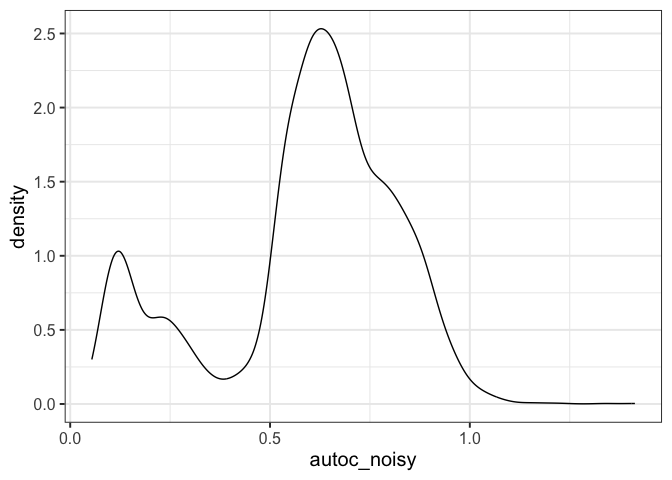
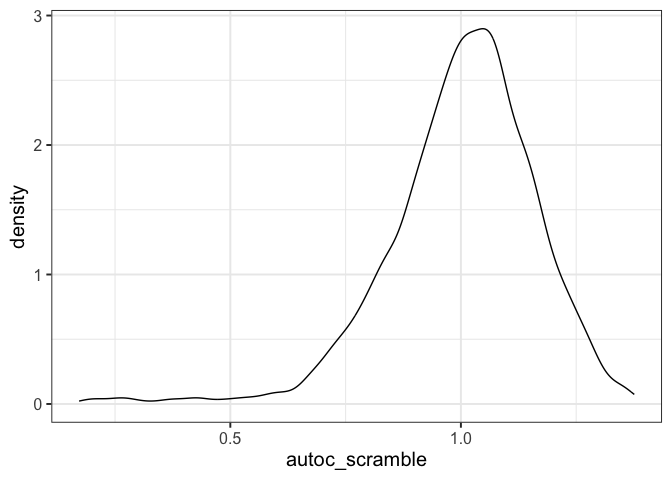
add perfect AUTOC

diff --git a/code/notebooks/2026-07-09_check-autoc.md b/code/notebooks/2026-07-09_check-autoc.md
@@ -62,6 +62,40 @@ all_runs %>%
 
 ![](figures/2026-07-09_check-autoc/unnamed-chunk-5-1.png)<!-- -->
 
+perfect autoc:
+
+``` r
+all_runs <- all_runs %>%
+  mutate(autoc_perfect = purrr::map(
+    .x = df_out,
+    .f = ~ autoc_norm_vec(truth = .x$cate_real,
+                     estimate = .x$cate_real)
+  )) %>%
+  unnest(autoc_perfect) %>%
+  mutate(autoc_perfect = 1 - autoc_perfect) # so lower is better
+```
+
+``` r
+# 0 = perfect ranking and 1 = no useful ranking, here, all = 0 
+all_runs %>% 
+  glimpse()
+```
+
+    ## Rows: 4,320
+    ## Columns: 12
+    ## $ assignment         <fct> random, random, random, random, random, random, ran…
+    ## $ prop_not_treated   <dbl> 0.3, 0.3, 0.3, 0.3, 0.3, 0.3, 0.3, 0.3, 0.3, 0.3, 0…
+    ## $ n_train            <dbl> 250, 250, 250, 250, 250, 250, 250, 250, 250, 250, 2…
+    ## $ learner            <fct> s, s, s, s, s, s, s, s, s, s, s, s, s, s, s, s, s, …
+    ## $ var_omit           <fct> none, none, none, none, none, none, none, none, non…
+    ## $ test_plot_location <fct> stratified, stratified, stratified, stratified, str…
+    ## $ run_id             <int> 1, 2, 3, 4, 5, 6, 7, 8, 9, 10, 11, 12, 13, 14, 15, …
+    ## $ df_assigned        <list> [<tbl_df[1806 x 26]>], [<tbl_df[1806 x 26]>], [<tb…
+    ## $ df_train           <list> [<tbl_df[250 x 26]>], [<tbl_df[250 x 26]>], [<tbl_…
+    ## $ df_out             <list> [<tbl_df[108 x 28]>], [<tbl_df[108 x 28]>], [<tbl_…
+    ## $ autoc_clean        <dbl> 0.6903083, 0.6347699, 0.8503038, 0.6859188, 0.12976…
+    ## $ autoc_perfect      <dbl> 0, 0, 0, 0, 0, 0, 0, 0, 0, 0, 0, 0, 0, 0, 0, 0, 0, …
+
 now scramble
 
 ``` r
@@ -88,7 +122,7 @@ all_runs %>%
   geom_density()
 ```
 
-![](figures/2026-07-09_check-autoc/unnamed-chunk-7-1.png)<!-- -->
+![](figures/2026-07-09_check-autoc/unnamed-chunk-9-1.png)<!-- -->
 
 try adding small amount of error - Gaussian noise
 
@@ -121,19 +155,21 @@ all_runs %>%
   geom_density()
 ```
 
-![](figures/2026-07-09_check-autoc/unnamed-chunk-9-1.png)<!-- -->
+![](figures/2026-07-09_check-autoc/unnamed-chunk-11-1.png)<!-- -->
 
 ``` r
 all_runs %>% 
-  summarise(median(autoc_clean), 
+  summarise(median(autoc_perfect),
+            median(autoc_clean), 
             median(autoc_scramble),  
             median(autoc_noisy))
 ```
 
-    ## # A tibble: 1 × 3
-    ##   `median(autoc_clean)` `median(autoc_scramble)` `median(autoc_noisy)`
-    ##                   <dbl>                    <dbl>                 <dbl>
-    ## 1                 0.630                     1.03                 0.633
+    ## # A tibble: 1 × 4
+    ##   `median(autoc_perfect)` `median(autoc_clean)` `median(autoc_scramble)`
+    ##                     <dbl>                 <dbl>                    <dbl>
+    ## 1                       0                 0.630                     1.02
+    ## # ℹ 1 more variable: `median(autoc_noisy)` <dbl>
 
 median(autoc_clean) → better than random
 
